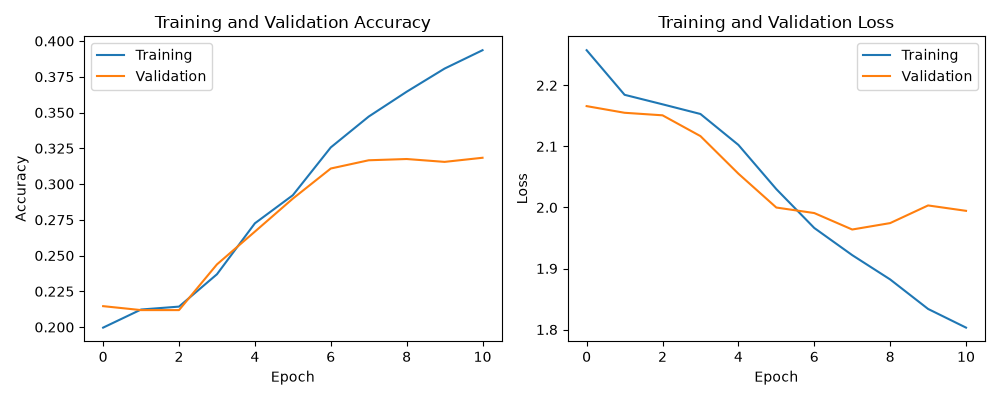
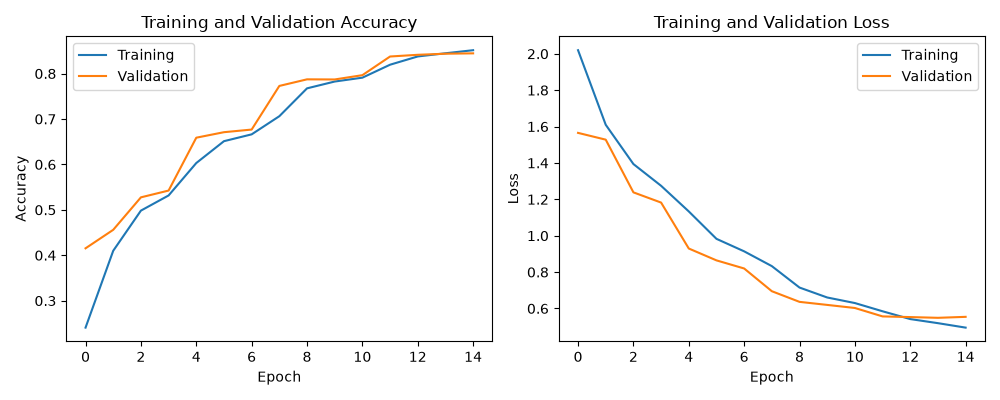
updated image detection model

diff --git a/training/train_image.py b/training/train_image.py
@@ -1,226 +1,167 @@
-"""
-Train a CNN model for facial emotion detection from images.
-
-Classes are automatically loaded from folder names.
-
-Expected structure:
-    image_emotion/
-        train/
-            angry/
-            disgusted/
-            fearful/
-            happy/
-            neutral/
-            sad/
-            surprised/
-        test/
-            angry/
-            disgusted/
-            fearful/
-            happy/
-            neutral/
-            sad/
-            surprised/
-
-Run:
-    python train_image.py
-"""
-
+import os
 import pickle
-import numpy as np
 import tensorflow as tf
+from tensorflow.keras.preprocessing.image import ImageDataGenerator
+from tensorflow.keras.models import Sequential
+from tensorflow.keras.layers import Input, Conv2D, MaxPooling2D, BatchNormalization, Activation, Dropout, Flatten, Dense
+from tensorflow.keras.callbacks import EarlyStopping, ReduceLROnPlateau
 
-from tensorflow.keras import layers, models
-from sklearn.utils.class_weight import compute_class_weight
+DATASET_DIR = "image_emotion"
+TRAIN_DIR = os.path.join(DATASET_DIR, "train")
+TEST_DIR = os.path.join(DATASET_DIR, "test")
 
-# Configuration
-DATA_DIR = "image_emotion"
-IMG_SIZE = (48, 48)
-BATCH_SIZE = 64
-EPOCHS = 30
+IMG_SIZE = 48
+BATCH_SIZE = 128
+EPOCHS = 15
 SEED = 42
 
-# Load training images
-print("Loading training images...")
+print("Loading image dataset...")
 
-train_ds = tf.keras.utils.image_dataset_from_directory(
-    f"{DATA_DIR}/train",
-    image_size=IMG_SIZE,
+train_datagen = ImageDataGenerator(
+    rescale=1.0 / 255,
+    rotation_range=10,
+    width_shift_range=0.1,
+    height_shift_range=0.1,
+    zoom_range=0.1,
+    horizontal_flip=True,
+    validation_split=0.15
+)
+
+test_datagen = ImageDataGenerator(
+    rescale=1.0 / 255
+)
+
+train_generator = train_datagen.flow_from_directory(
+    TRAIN_DIR,
+    target_size=(IMG_SIZE, IMG_SIZE),
     color_mode="grayscale",
     batch_size=BATCH_SIZE,
+    class_mode="categorical",
+    subset="training",
     shuffle=True,
     seed=SEED
 )
 
-# Load test images
-print("\nLoading test images...")
-
-test_ds = tf.keras.utils.image_dataset_from_directory(
-    f"{DATA_DIR}/test",
-    image_size=IMG_SIZE,
+validation_generator = train_datagen.flow_from_directory(
+    TRAIN_DIR,
+    target_size=(IMG_SIZE, IMG_SIZE),
     color_mode="grayscale",
     batch_size=BATCH_SIZE,
+    class_mode="categorical",
+    subset="validation",
+    shuffle=False,
+    seed=SEED
+)
+
+test_generator = test_datagen.flow_from_directory(
+    TEST_DIR,
+    target_size=(IMG_SIZE, IMG_SIZE),
+    color_mode="grayscale",
+    batch_size=BATCH_SIZE,
+    class_mode="categorical",
     shuffle=False
 )
 
-class_names = train_ds.class_names
-NUM_CLASSES = len(class_names)
+class_names = list(train_generator.class_indices.keys())
+num_classes = len(class_names)
 
-print("\nClasses:")
-for i, name in enumerate(class_names):
-    print(f"{i}: {name}")
+print("Classes:", class_names)
+print("Number of classes:", num_classes)
+print("Training images:", train_generator.samples)
+print("Validation images:", validation_generator.samples)
+print("Testing images:", test_generator.samples)
 
-print(f"\nTotal classes: {NUM_CLASSES}")
+print("Building CNN model...")
 
-# Count training samples
-class_counts = np.zeros(NUM_CLASSES, dtype=np.int64)
+model = Sequential([
+    Input(shape=(IMG_SIZE, IMG_SIZE, 1)),
 
-for _, labels in train_ds:
-    for label in labels.numpy():
-        class_counts[label] += 1
+    Conv2D(64, (3, 3), padding="same"),
+    BatchNormalization(),
+    Activation("relu"),
+    MaxPooling2D(pool_size=(2, 2)),
+    Dropout(0.25),
 
-print("\nTraining image distribution:")
-for i, name in enumerate(class_names):
-    print(f"{name}: {class_counts[i]}")
+    Conv2D(128, (5, 5), padding="same"),
+    BatchNormalization(),
+    Activation("relu"),
+    MaxPooling2D(pool_size=(2, 2)),
+    Dropout(0.25),
 
-# Calculate class weights
-labels_for_weights = []
+    Conv2D(256, (3, 3), padding="same"),
+    BatchNormalization(),
+    Activation("relu"),
+    MaxPooling2D(pool_size=(2, 2)),
+    Dropout(0.25),
 
-for _, labels in train_ds:
-    labels_for_weights.extend(labels.numpy())
+    Conv2D(256, (3, 3), padding="same"),
+    BatchNormalization(),
+    Activation("relu"),
+    MaxPooling2D(pool_size=(2, 2)),
+    Dropout(0.25),
 
-labels_for_weights = np.array(labels_for_weights)
+    Flatten(),
 
-classes = np.unique(labels_for_weights)
+    Dense(256),
+    BatchNormalization(),
+    Activation("relu"),
+    Dropout(0.4),
 
-weights = compute_class_weight(
-    class_weight="balanced",
-    classes=classes,
-    y=labels_for_weights
-)
+    Dense(128),
+    BatchNormalization(),
+    Activation("relu"),
+    Dropout(0.3),
 
-class_weights = dict(zip(classes, weights))
-
-print("\nClass weights:")
-for class_id, weight in class_weights.items():
-    print(f"{class_names[class_id]}: {weight:.2f}")
-
-# Data augmentation
-data_augmentation = tf.keras.Sequential([
-    layers.RandomFlip("horizontal"),
-    layers.RandomRotation(0.08),
-    layers.RandomZoom(0.10),
-    layers.RandomTranslation(0.05, 0.05)
-], name="data_augmentation")
-
-# Normalize images
-normalization = layers.Rescaling(1.0 / 255)
-
-# Improve input pipeline
-AUTOTUNE = tf.data.AUTOTUNE
-
-train_ds = train_ds.prefetch(AUTOTUNE)
-test_ds = test_ds.prefetch(AUTOTUNE)
-
-# Build CNN
-print("\nBuilding CNN model...")
-
-model = models.Sequential([
-    layers.Input(shape=(IMG_SIZE[0], IMG_SIZE[1], 1)),
-
-    normalization,
-    data_augmentation,
-
-    layers.Conv2D(32, (3, 3), padding="same", activation="relu"),
-    layers.BatchNormalization(),
-    layers.Conv2D(32, (3, 3), padding="same", activation="relu"),
-    layers.BatchNormalization(),
-    layers.MaxPooling2D((2, 2)),
-    layers.Dropout(0.25),
-
-    layers.Conv2D(64, (3, 3), padding="same", activation="relu"),
-    layers.BatchNormalization(),
-    layers.Conv2D(64, (3, 3), padding="same", activation="relu"),
-    layers.BatchNormalization(),
-    layers.MaxPooling2D((2, 2)),
-    layers.Dropout(0.25),
-
-    layers.Conv2D(128, (3, 3), padding="same", activation="relu"),
-    layers.BatchNormalization(),
-    layers.Conv2D(128, (3, 3), padding="same", activation="relu"),
-    layers.BatchNormalization(),
-    layers.MaxPooling2D((2, 2)),
-    layers.Dropout(0.30),
-
-    layers.GlobalAveragePooling2D(),
-
-    layers.Dense(128, activation="relu"),
-    layers.BatchNormalization(),
-    layers.Dropout(0.40),
-
-    layers.Dense(NUM_CLASSES, activation="softmax")
+    Dense(num_classes, activation="softmax")
 ])
 
 model.compile(
-    optimizer=tf.keras.optimizers.Adam(learning_rate=0.001),
-    loss="sparse_categorical_crossentropy",
+    optimizer=tf.keras.optimizers.Adam(learning_rate=0.0005),
+    loss="categorical_crossentropy",
     metrics=["accuracy"]
 )
 
-model.build(input_shape=(None, IMG_SIZE[0], IMG_SIZE[1], 1))
-
 model.summary()
 
-# Callbacks
-early_stop = tf.keras.callbacks.EarlyStopping(
+early_stopping = EarlyStopping(
     monitor="val_loss",
-    patience=5,
+    patience=3,
     restore_best_weights=True,
     verbose=1
 )
 
-reduce_lr = tf.keras.callbacks.ReduceLROnPlateau(
+reduce_lr = ReduceLROnPlateau(
     monitor="val_loss",
     factor=0.5,
     patience=2,
-    min_lr=0.00001,
+    min_lr=1e-6,
     verbose=1
 )
 
-# Train
-print("\nStarting CNN training...")
+print("Starting CNN training...")
 
-history = model.fit(
-    train_ds,
-    validation_data=test_ds,
+model.fit(
+    train_generator,
+    validation_data=validation_generator,
     epochs=EPOCHS,
-    class_weight=class_weights,
-    callbacks=[early_stop, reduce_lr],
-    verbose=1
+    callbacks=[early_stopping, reduce_lr]
 )
 
-# Evaluate
-print("\nEvaluating CNN...")
+print("Evaluating model...")
 
-loss, accuracy = model.evaluate(test_ds, verbose=1)
+test_loss, test_accuracy = model.evaluate(test_generator)
 
-print("\n==============================")
-print("CNN MODEL RESULTS")
-print("==============================")
-print(f"Test Loss: {loss:.4f}")
-print(f"Test Accuracy: {accuracy:.4f}")
+print(f"Test Loss: {test_loss:.4f}")
+print(f"Test Accuracy: {test_accuracy:.4f}")
 
-# Save model
-model.save("../backend/emotion_image_model.keras")
+os.makedirs("../backend", exist_ok=True)
 
-# Save labels
-with open("../backend/image_labels.pkl", "wb") as f:
+model.save("../backend/image_emotion_model.keras")
+
+with open("../backend/image_label_classes.pkl", "wb") as f:
     pickle.dump(class_names, f)
 
-print("\n==============================")
-print("CNN TRAINING COMPLETED")
-print("==============================")
-
-print("\nSaved:")
-print("../backend/emotion_image_model.keras")
-print("../backend/image_labels.pkl")
+print("Training completed.")
+print("Saved:")
+print("../backend/image_emotion_model.keras")
+print("../backend/image_label_classes.pkl")
